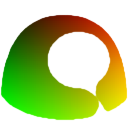
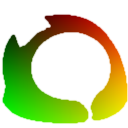
new fox

Changed region(s): [[0.0, 0.0938, 1.0, 0.9688], [0.75, 0.1875, 0.9375, 0.4375], [0.6875, 0.1562, 0.75, 0.1875]]

diff --git a/index.js b/index.js
@@ -1,16 +1,22 @@
 const flagFile = document.getElementById("flagFile")
-const canvas1 = document.getElementById('canvas1');
-const canvas2 = document.getElementById('canvas2');
-const context1 = canvas1.getContext('2d');
-const context2 = canvas2.getContext('2d');
 
 const image_size = 128;
 
-const rootContext = document.body.getAttribute("data-root");
+const canvas1 = document.getElementById('canvas1');
+const context1 = canvas1.getContext('2d');
 const blobcat = new Image(); blobcat.onload = function() {blobcat.crossOrigin = "Anonymous";}; blobcat.src = "blobcat.png";
-const blobfox = new Image(); blobfox.onload = function() {blobfox.crossOrigin = "Anonymous";}; blobfox.src = "blobfox.png";
 const blobcatoverlay = new Image(); blobcatoverlay.onload = function() {blobcatoverlay.crossOrigin = "Anonymous";}; blobcatoverlay.src = "blobcatoverlay.png";
+
+const canvas2 = document.getElementById('canvas2');
+const context2 = canvas2.getContext('2d');
+const blobfox = new Image(); blobfox.onload = function() {blobfox.crossOrigin = "Anonymous";}; blobfox.src = "blobfox.png";
 const blobfoxoverlay = new Image(); blobfoxoverlay.onload = function() {blobfoxoverlay.crossOrigin = "Anonymous";}; blobfoxoverlay.src = "blobfoxoverlay.png";
+
+const canvas3 = document.getElementById('canvas3');
+const context3 = canvas3.getContext('2d');
+const blobfox2 = new Image(); blobfox2.onload = function() {blobfox.crossOrigin = "Anonymous";}; blobfox2.src = "blobfox2.png";
+const blobfox2overlay = new Image(); blobfox2overlay.onload = function() {blobfox2overlay.crossOrigin = "Anonymous";}; blobfox2overlay.src = "blobfox2overlay.png";
+
 
 function flagSelected() {
     const file = flagFile.files[0];
@@ -30,6 +36,7 @@ function flagSelected() {
         img.addEventListener('load', () => {
             drawEmoji(blobcat, blobcatoverlay, img, context1)
             drawEmoji(blobfox, blobfoxoverlay, img, context2)
+            drawEmoji(blobfox2, blobfox2overlay, img, context3)
         }, false);
     }
 }

diff --git a/index.html b/index.html
@@ -2,7 +2,7 @@
     <head>
         <title>blob cat, fox emoji thing</title>
         <link rel="stylesheet" href="index.css">
-        <script src="index.js?1" defer="true"></script>
+        <script src="index.js?2" defer="true"></script>
     </head>
     <body>
         <h1>blobcat / blobfox emoji generator</h1>
@@ -13,10 +13,12 @@
         <div class="images">
             <canvas id="canvas1" width="128" height="128"></canvas>
             <canvas id="canvas2" width="128" height="128"></canvas>
+            <canvas id="canvas3" width="128" height="128"></canvas>
         </div>
 
         <button type="button" onclick="saveCanvas('blobcat', canvas1);" class="button">download blobcat emoji</button>
         <button type="button" onclick="saveCanvas('blobfox', canvas2);" class="button">download blobfox emoji</button>
+        <button type="button" onclick="saveCanvas('blobfox2', canvas3);" class="button">download blobfox2 emoji</button>
 
         <p></p>
         <a href="https://github.com/dragekk/blob-emoji-flag">Website source code</a>
